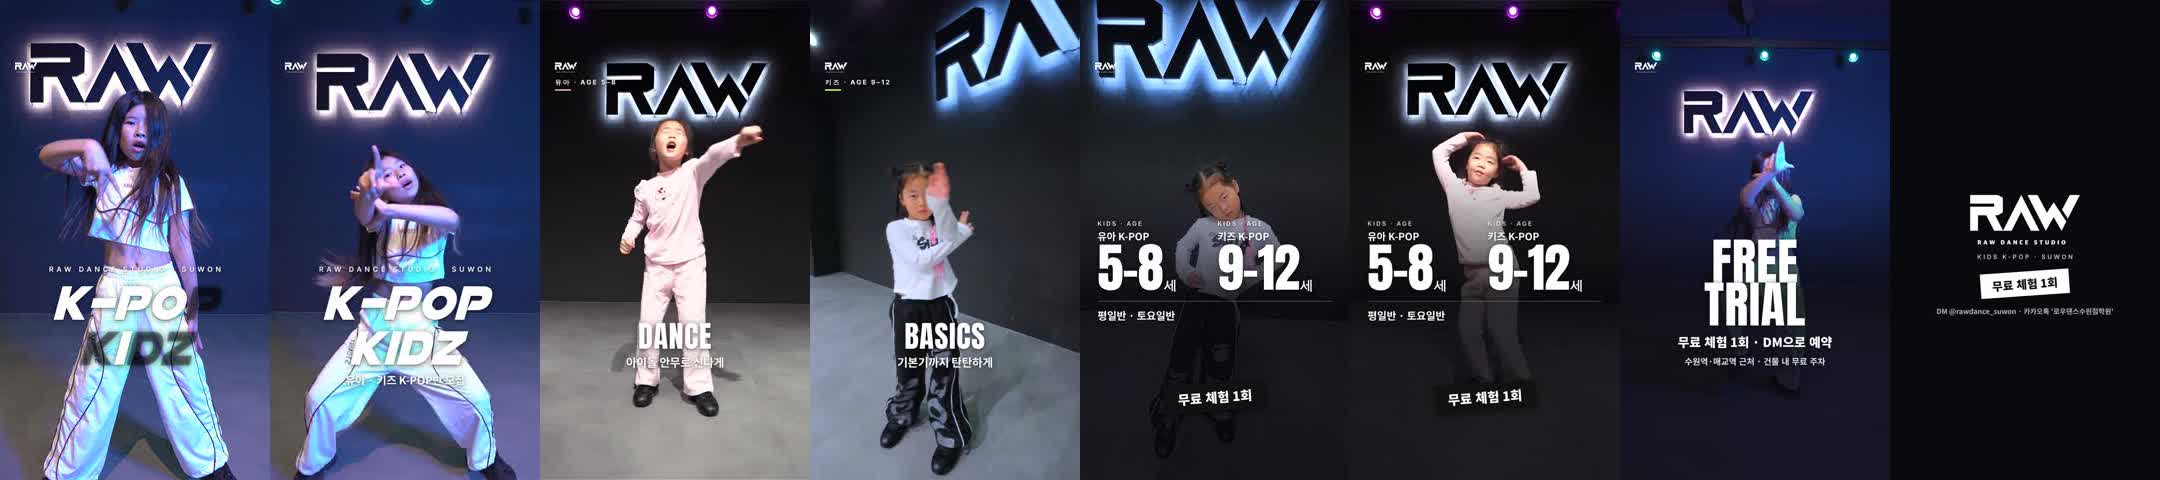
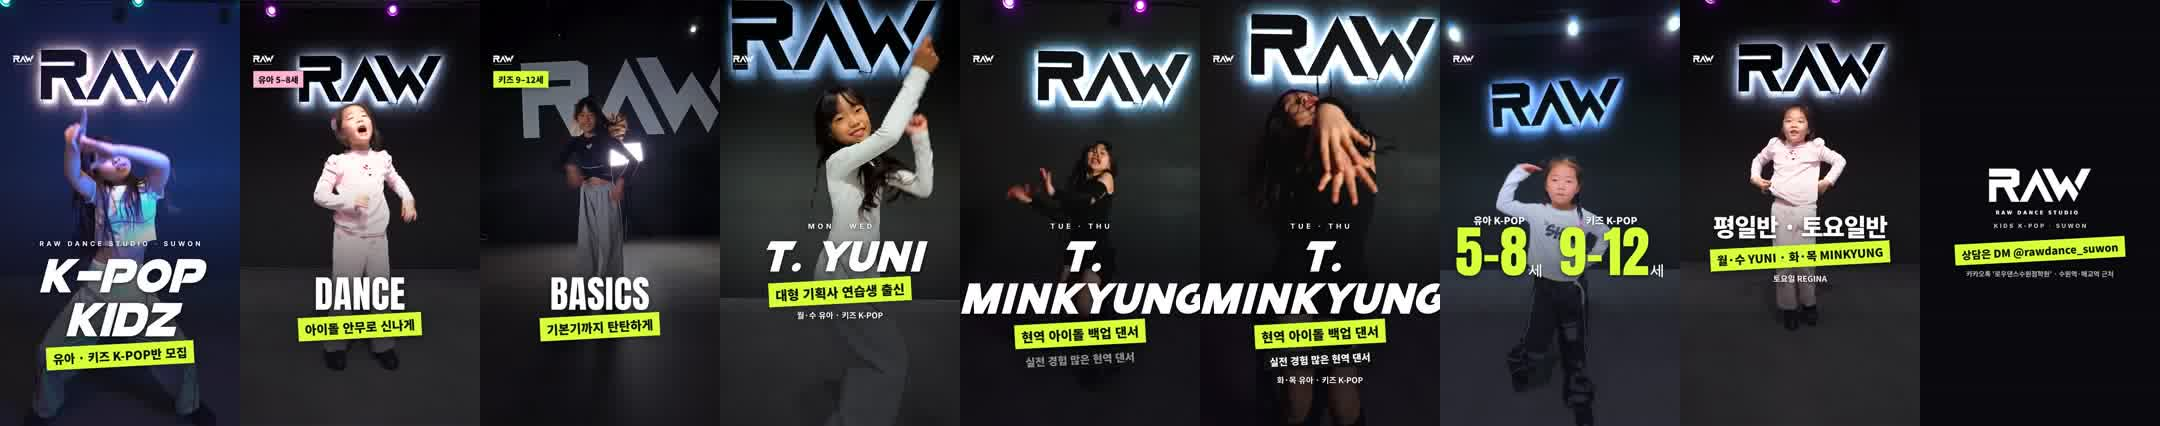
K-POP반 광고 3차: 연두 띠로 눈에 띄게, 무료 체험 뺌, 쌤 이력 장면(YUNI 대형 기획사 연습생 출신 · MINKYUNG 현역 아이돌 백업 댄서) / 가이드에 MINKYUNG 이력
Claude-Session: https://claude.ai/code/session_01CMPXWNa21Fqq6srPZpa27D

diff --git a/content/2026-11-19_kpop-kids-ad/ad.html b/content/2026-11-19_kpop-kids-ad/ad.html
@@ -1,59 +1,56 @@
 <!doctype html><html><head><meta charset="utf-8"><style>
-/* 유아·키즈 K-POP반 광고 릴스 글자 2차 (원장님 2026-11-19 "자막들 왜케 짜쳐졌냐")
-   → 상자·알약 모양 없앰. RAW 스타일: TRACKPAD 글꼴(GoGo Poster) 깜빡이며 켜지는 첫 화면, 상자 없는 흰 글자, 큰 숫자, SEASON 1 포스터의 검은 띠 */
+/* 유아·키즈 K-POP반 광고 릴스 글자 3차 (원장님 2026-11-19 "눈에 잘 안 띄는데 / 무료 체험 빼고 / 쌤 이력 강조")
+   → 중요한 말은 연두 띠 + 검은 글씨, 큰 글씨는 더 크게, 아래쪽 어둡게 깔아 대비. 쌤 장면 2개 (YUNI · MINKYUNG) */
 *{margin:0;padding:0;box-sizing:border-box}html,body{width:1080px;height:1920px;background:transparent;overflow:hidden;font-family:"Gothic A1","Noto Sans KR",sans-serif;color:#fff}
 .a{position:absolute}
-.sh{text-shadow:0 4px 24px rgba(0,0,0,.55),0 2px 4px rgba(0,0,0,.4)}
-#logo{left:60px;top:250px;height:40px}
-#tag{left:60px;top:312px;font:700 26px Inter;letter-spacing:.22em}
-#tag i{display:block;width:64px;height:6px;margin-top:10px}
-#hook{left:0;right:0;top:1060px;text-align:center}
-#hook .k{font:600 28px Inter;letter-spacing:.42em;text-indent:.42em}
-#hook .t{margin-top:14px;font:italic 400 196px/0.92 "GoGo Poster 2020",Anton;letter-spacing:.01em}
-#hook .t span{display:inline-block;white-space:pre;position:relative}
-#hook .t span i{position:absolute;left:0;top:0;font-style:inherit}
-#hook .n{margin-top:18px;font-size:44px;font-weight:800;letter-spacing:-.01em}
-#cap{left:0;right:0;top:1290px;text-align:center}
-#cap .e{font:400 120px/0.9 Anton;letter-spacing:.02em}
-#cap .k{margin-top:16px;font-size:46px;font-weight:800;letter-spacing:-.02em}
-#shade{left:0;right:0;bottom:0;height:1250px;background:linear-gradient(transparent,rgba(8,7,12,.86) 42%)}
-#info{left:70px;right:70px;top:880px}
-#info .g{display:grid;grid-template-columns:1fr 1fr;gap:20px}
-#info .c .l{font:600 24px Inter;letter-spacing:.24em;opacity:.85}
-#info .c .ko{margin-top:6px;font-size:40px;font-weight:800}
-#info .c .num{margin-top:8px;font:400 210px/0.85 Anton;letter-spacing:-.02em}
-#info .c .num small{font-family:"Gothic A1";font-size:52px;font-weight:900;margin-left:6px}
-#info .d{margin-top:40px;border-top:2px solid rgba(255,255,255,.4);padding-top:24px;font-size:42px;font-weight:800;letter-spacing:-.01em}
-.band{display:inline-block;background:#111;color:#fff;transform:rotate(-4deg);box-shadow:0 12px 26px rgba(0,0,0,.35)}
-#free{left:50%;top:1530px;transform:translate(-50%,0) rotate(-4deg);padding:20px 56px;font-size:52px;font-weight:900;white-space:nowrap}
-#cta{left:0;right:0;top:960px;text-align:center}
-#cta .e{font:400 200px/0.86 Anton;letter-spacing:.01em}
-#cta .k{margin-top:26px;font-size:50px;font-weight:900}
-#cta .s{margin-top:18px;font-size:34px;font-weight:600;opacity:.88}
+.sh{text-shadow:0 6px 28px rgba(0,0,0,.6),0 2px 6px rgba(0,0,0,.5)}
+.lime{display:inline-block;background:#D7FF3A;color:#111;font-weight:900;padding:12px 30px;transform:rotate(-3deg);box-shadow:0 12px 28px rgba(0,0,0,.35);text-shadow:none;white-space:nowrap}
+.blk{display:inline-block;background:#111;color:#fff;font-weight:900;padding:10px 26px;transform:rotate(-3deg);box-shadow:0 12px 28px rgba(0,0,0,.35);text-shadow:none;white-space:nowrap}
+#grad{left:0;right:0;bottom:0;height:1100px;background:linear-gradient(transparent,rgba(8,7,12,.78) 55%)}
+#logo{left:60px;top:250px;height:42px}
+#tag{left:60px;top:320px;padding:10px 22px;font-size:38px;font-weight:900;color:#111;box-shadow:0 8px 20px rgba(0,0,0,.3)}
+#hook{left:0;right:0;top:1080px;text-align:center}
+#hook .k{font:700 30px Inter;letter-spacing:.4em;text-indent:.4em}
+#hook .t{margin-top:12px;font:italic 400 220px/0.9 "GoGo Poster 2020",Anton}
+#hook .t span{display:inline-block;white-space:pre;position:relative}#hook .t span i{position:absolute;left:0;top:0;font-style:inherit}
+#hook .lime{margin-top:26px;font-size:54px}
+#cap{left:0;right:0;top:1250px;text-align:center}
+#cap .e{font:400 170px/0.88 Anton;letter-spacing:.01em}
+#cap .lime{margin-top:20px;font-size:56px}
+#tch{left:0;right:0;top:1000px;text-align:center}
+#tch .d{font:700 32px Inter;letter-spacing:.42em;text-indent:.42em}
+#tch .n{margin-top:8px;font:italic 400 200px/0.95 "GoGo Poster 2020",Anton}
+#tch .lime{margin-top:24px;font-size:58px}
+#tch .blk{margin-top:18px;font-size:44px}
+#tch .s{margin-top:24px;font-size:36px;font-weight:800}
+#info{left:0;right:0;top:960px;text-align:center}
+#info .g{display:flex;justify-content:center;gap:70px}
+#info .ko{font-size:44px;font-weight:900}
+#info .num{margin-top:4px;font:400 250px/0.85 Anton;color:#D7FF3A}
+#info .num small{font-family:"Gothic A1";font-size:64px;font-weight:900;color:#fff;margin-left:6px}
+#info .big{font-size:110px;font-weight:900;letter-spacing:-.04em;line-height:1.05}
+#info .e{font:400 260px/0.85 Anton}
+#info .lime{margin-top:28px;font-size:52px}
+#info .s{margin-top:24px;font-size:36px;font-weight:800;line-height:1.5}
 #end{inset:0;background:#0b0a0f}
-#end .c{position:absolute;left:0;right:0;top:780px;text-align:center}
-#end img{width:440px}
-#end .k{margin-top:30px;font:600 24px Inter;letter-spacing:.32em;text-indent:.32em;opacity:.8}
-#end .b{margin-top:44px;padding:16px 46px;font-size:46px;font-weight:900;background:#fff;color:#111}
-#end .s{margin-top:40px;font-size:28px;font-weight:600;opacity:.7}
+#end .c{position:absolute;left:0;right:0;top:760px;text-align:center}
+#end img{width:460px}
+#end .k{margin-top:30px;font:700 26px Inter;letter-spacing:.32em;text-indent:.32em;opacity:.85}
+#end .lime{margin-top:50px;font-size:48px}
+#end .s{margin-top:34px;font-size:30px;font-weight:700;opacity:.75}
 </style></head><body>
-<div id="shade" class="a"></div>
+<div id="grad" class="a"></div>
 <img id="logo" class="a" src="logo.png">
-<div id="tag" class="a sh"><span></span><i></i></div>
-<div id="hook" class="a sh"><div class="k">RAW DANCE STUDIO · SUWON</div><div class="t" id="ht"></div><div class="n">유아 · 키즈 K-POP반 모집</div></div>
-<div id="cap" class="a sh"><div class="e"></div><div class="k"></div></div>
-<div id="info" class="a sh">
- <div class="g"><div class="c"><div class="l">KIDS · AGE</div><div class="ko">유아 K-POP</div><div class="num">5–8<small>세</small></div></div>
-  <div class="c"><div class="l">KIDS · AGE</div><div class="ko">키즈 K-POP</div><div class="num">9–12<small>세</small></div></div></div>
- <div class="d">평일반 · 토요일반</div></div>
-<div id="free" class="a band">무료 체험 1회</div>
-<div id="cta" class="a sh"><div class="e">FREE<br>TRIAL</div><div class="k">무료 체험 1회 · DM으로 예약</div><div class="s">수원역·매교역 근처 · 건물 내 무료 주차</div></div>
+<div id="tag" class="a"></div>
+<div id="hook" class="a sh"><div class="k">RAW DANCE STUDIO · SUWON</div><div class="t" id="ht"></div><div class="lime">유아 · 키즈 K-POP반 모집</div></div>
+<div id="cap" class="a sh"><div class="e"></div><div class="lime"></div></div>
+<div id="tch" class="a sh"></div>
+<div id="info" class="a sh"></div>
 <div id="end" class="a"><div class="c"><img src="logo.png"><div class="k">KIDS K-POP · SUWON</div>
- <div class="band b">무료 체험 1회</div><div class="s">DM @rawdance_suwon · 카카오톡 '로우댄스수원점학원'</div></div></div>
+ <div class="lime">상담은 DM @rawdance_suwon</div><div class="s">카카오톡 '로우댄스수원점학원' · 수원역·매교역 근처</div></div></div>
 <script>
 const $=id=>document.getElementById(id), cl=x=>Math.min(1,Math.max(0,x)), eo=x=>1-Math.pow(1-cl(x),3);
 let TL=[], VER='30';
-// TRACKPAD처럼 글자마다 무작위로 켜짐 (켜지기 직전 회색 엉뚱한 글자 1프레임)
 let seed=7; const rnd=()=>{seed=(seed*16807)%2147483647;return seed/2147483647};
 const AZ="ABCDEFGHIJKLMNOPQRSTUVWXYZ"; let CH=[];
 function mk(txt){ const el=$('ht'); el.innerHTML='';
@@ -61,24 +58,38 @@ function mk(txt){ const el=$('ht'); el.innerHTML='';
     const s=document.createElement('span'); s.textContent=c; const g=document.createElement('i'); s.appendChild(g); el.appendChild(s);
     return {s,g,c,on:0.05+rnd()*0.45,gh:rnd()<0.45,gc:AZ[Math.floor(rnd()*26)]}; }).filter(Boolean); }
 const show=(id,on)=>{ $(id).style.display=on?'':'none'; };
+const pop=(el,u,dl=0)=>{ const p=eo((u-dl)/0.22); el.style.opacity=p; el.style.transform=(el.dataset.r||'')+` scale(${1.18-0.18*p})`; };
+// 쌤 카드 (원장님 확인 2026-11-19, 브랜드 가이드 강사 표)
+const TCH={yuni:{d:'MON · WED',n:'T. YUNI',a:'대형 기획사 연습생 출신',b:'',s:'월·수 유아 · 키즈 K-POP'},
+           mink:{d:'TUE · THU',n:'T. MINKYUNG',a:'현역 아이돌 백업 댄서',b:'실전 경험 많은 현역 댄서',s:'화·목 유아 · 키즈 K-POP'}};
+// 정보 화면 (30초는 3장, 15초는 1장)
+const INFO30=[`<div class="g"><div><div class="ko">유아 K-POP</div><div class="num">5–8<small>세</small></div></div><div><div class="ko">키즈 K-POP</div><div class="num">9–12<small>세</small></div></div></div>`,
+  `<div class="big">평일반 · 토요일반</div><div class="lime">월·수 YUNI · 화·목 MINKYUNG</div><div class="s">토요일 REGINA</div>`,
+  `<div class="e">DM</div><div class="lime">상담은 인스타 DM · 카카오톡</div><div class="s">수원역·매교역 근처 · 건물 내 무료 주차</div>`];
+const INFO15=`<div class="g"><div><div class="ko">유아 K-POP</div><div class="num">5–8<small>세</small></div></div><div><div class="ko">키즈 K-POP</div><div class="num">9–12<small>세</small></div></div></div><div class="lime">평일반 · 토요일반 · 상담 DM</div>`;
 window.setup=o=>{ TL=o.tl; VER=o.ver; mk('K-POP\nKIDZ'); };
 window.render=t=>{
-  const seg=TL.find(s=>t>=s.t0&&t<s.t1)||TL[TL.length-1], k=seg.kind;
+  const seg=TL.find(s=>t>=s.t0&&t<s.t1)||TL[TL.length-1], k=seg.kind, u=t-seg.t0;
   const first=kind=>TL.find(s=>s.kind===kind), last=kind=>[...TL].reverse().find(s=>s.kind===kind);
-  show('logo',k!=='logo'); show('shade',k==='info'||k==='cta');
-  show('hook',k==='hook'); if(k==='hook'){ const u=t-first('hook').t0;
-    CH.forEach(c=>{ const on=u>=c.on; c.s.style.color=on?'#fff':'transparent'; c.g.textContent=(c.gh&&u>=c.on-1/24&&u<c.on)?c.gc:''; c.g.style.color='rgba(255,255,255,.4)'; });
-    $('hook').querySelector('.k').style.opacity=eo((u-0.05)/0.3); $('hook').querySelector('.n').style.opacity=eo((u-0.45)/0.3); }
-  show('tag',k==='mont'); if(k==='mont'){ const y=seg.cls==='유아'; $('tag').firstElementChild.textContent=y?'유아 · AGE 5–8':'키즈 · AGE 9–12'; $('tag').lastElementChild.style.background=y?'#FFB3CF':'#D7FF3A'; }
+  show('logo',k!=='logo'); show('grad',k!=='logo');
+  show('hook',k==='hook'); if(k==='hook'){ const h=t-first('hook').t0;
+    CH.forEach(c=>{ c.s.style.color=h>=c.on?'#fff':'transparent'; c.g.textContent=(c.gh&&h>=c.on-1/24&&h<c.on)?c.gc:''; c.g.style.color='rgba(255,255,255,.4)'; });
+    $('hook').querySelector('.k').style.opacity=eo((h-0.05)/0.3); const L=$('hook').querySelector('.lime'); L.dataset.r='rotate(-3deg)'; pop(L,h,0.5); }
+  show('tag',k==='mont'); if(k==='mont'){ const y=seg.cls==='유아'; $('tag').textContent=y?'유아 5–8세':'키즈 9–12세'; $('tag').style.background=y?'#FFB3CF':'#D7FF3A'; }
   const m0=first('mont'), m1=last('mont');
   const caps=VER==='30'?[['DANCE','아이돌 안무로 신나게'],['BASICS','기본기까지 탄탄하게'],['EVERY WEEK','평일반 · 토요일반']]:[['DANCE','아이돌 안무로 신나게'],['BASICS','기본기까지 탄탄하게']];
-  show('cap',k==='mont'); if(k==='mont'){ const n=caps.length, span=(m1.t1-m0.t0)/n, i=Math.min(n-1,Math.floor((t-m0.t0)/span)), u=t-m0.t0-i*span;
-    $('cap').querySelector('.e').textContent=caps[i][0]; $('cap').querySelector('.k').textContent=caps[i][1];
-    const p=eo(u/0.22); $('cap').style.opacity=p; $('cap').style.transform=`translateY(${(1-p)*24}px)`; }
-  show('info',k==='info'); show('free',k==='info');
-  if(k==='info'){ const u=t-first('info').t0; $('info').style.opacity=eo(u/0.35); $('info').style.transform=`translateY(${(1-eo(u/0.35))*30}px)`;
-    const fu=u-(VER==='30'?1.5:0.6); $('free').style.opacity=eo(fu/0.2); $('free').style.transform=`translate(-50%,0) rotate(-4deg) scale(${1.25-0.25*eo(fu/0.2)})`; }
-  show('cta',k==='cta'); if(k==='cta'){ const u=t-first('cta').t0; $('cta').style.opacity=eo(u/0.3); }
-  show('end',k==='logo'); if(k==='logo') $('end').style.opacity=eo((t-first('logo').t0)/0.35);
+  show('cap',k==='mont'); if(k==='mont'){ const n=caps.length, span=(m1.t1-m0.t0)/n, i=Math.min(n-1,Math.floor((t-m0.t0)/span)), v=t-m0.t0-i*span;
+    $('cap').querySelector('.e').textContent=caps[i][0]; const L=$('cap').querySelector('.lime'); L.textContent=caps[i][1]; L.dataset.r='rotate(-3deg)';
+    const E=$('cap').querySelector('.e'); E.style.opacity=eo(v/0.18); E.style.transform=`translateY(${(1-eo(v/0.18))*30}px)`; pop(L,v,0.12); }
+  show('tch',k==='yuni'||k==='mink'); if(k==='yuni'||k==='mink'){ const c=TCH[k], v=t-first(k).t0;
+    if($('tch').dataset.k!==k){ $('tch').dataset.k=k; $('tch').innerHTML=`<div class="d">${c.d}</div><div class="n" style="white-space:nowrap;font-size:${c.n.length>8?128:200}px">${c.n}</div><div class="lime">${c.a}</div>${c.b?`<br><div class="blk">${c.b}</div>`:''}<div class="s">${c.s}</div>`; }
+    const T=$('tch'); T.querySelector('.d').style.opacity=eo(v/0.2); const N=T.querySelector('.n'); N.style.opacity=eo(v/0.2); N.style.transform=`translateX(${(1-eo(v/0.25))*-60}px)`;
+    const A=T.querySelector('.lime'); A.dataset.r='rotate(-3deg)'; pop(A,v,0.25); const B=T.querySelector('.blk'); if(B){ B.dataset.r='rotate(-3deg)'; pop(B,v,0.45); }
+    T.querySelector('.s').style.opacity=eo((v-0.5)/0.3); }
+  show('info',k==='info'); if(k==='info'){ const segs=TL.filter(s=>s.kind==='info'), i=segs.indexOf(seg), html=VER==='30'?INFO30[Math.min(i,2)]:INFO15;
+    if($('info').dataset.i!==String(i)){ $('info').dataset.i=String(i); $('info').innerHTML=html; }
+    $('info').style.opacity=eo(u/0.2); $('info').style.transform=`translateY(${(1-eo(u/0.25))*30}px)`;
+    const L=$('info').querySelector('.lime'); if(L){ L.dataset.r='rotate(-3deg)'; pop(L,u,0.3); } }
+  show('end',k==='logo'); if(k==='logo'){ const v=t-first('logo').t0; $('end').style.opacity=eo(v/0.35); const L=$('end').querySelector('.lime'); L.dataset.r='rotate(-3deg)'; pop(L,v,0.4); }
 };
 </script></body></html>

diff --git a/content/2026-11-19_kpop-kids-ad/make_ad.py b/content/2026-11-19_kpop-kids-ad/make_ad.py
@@ -66,10 +66,11 @@ def clip(f, t, d, out):
 # ── 구성 (박자 단위) ──
 if WHICH == "30":
     song, bpm, first = os.path.join(MUS, "party.wav"), 120.0, 0.029; B = 60 / bpm
-    plan = [("hook", 4)] + [("mont", 2)] * 12 + [("info", 4)] * 5 + [("cta", 4)] * 3 + [("logo", 4)]
+    # 원장님 2026-11-19: 무료 체험 빼고, 쌤 이력 강조 → 훅 · 몽타주 · T.YUNI · T.MINKYUNG · 정보 · 로고 (64박 = 32초)
+    plan = [("hook", 4)] + [("mont", 2)] * 12 + [("yuni", 4)] * 2 + [("mink", 4)] * 2 + [("info", 4)] * 3 + [("logo", 8)]
 else:
     song, bpm, first = os.path.join(MUS, "madness.wav"), 130.0, 0.435; B = 60 / bpm
-    plan = [("hook", 4)] + [("mont", 2)] * 8 + [("info", 4)] * 2 + [("logo", 4)]
+    plan = [("hook", 4)] + [("mont", 2)] * 5 + [("yuni", 4)] + [("mink", 4)] + [("info", 6)] + [("logo", 4)]
 nmont = sum(1 for p in plan if p[0] == "mont"); nlong = sum(1 for p in plan if p[0] in ("hook", "info", "cta", "logo"))
 
 # 영상마다 후보 구간
@@ -83,9 +84,15 @@ queue = []
 for r in range(4):
     for f in order:
         if r < len(cand[f]): queue.append((f,) + cand[f][r])
+# 쌤 장면은 그 쌤 반 영상에서 (1021 = YUNI 반, 1119 = MINKYUNG 반 — 영상 앞 자막 기준)
+pool = {"yuni": [("1021_kids.mp4",) + c for c in cand["1021_kids.mp4"]], "mink": [("1119_kids_insta.mp4",) + c for c in cand["1119_kids_insta.mp4"]]}
+used = {"yuni": 0, "mink": 0}
+queue = [q for q in queue if q[0] not in ("1021_kids.mp4", "1119_kids_insta.mp4")] + [q for q in queue if q[0] in ("1021_kids.mp4", "1119_kids_insta.mp4")]
 tmp = tempfile.mkdtemp(prefix="raw-kpopad-"); segs = []; timeline = []; t = 0.0; qi = 0
 for kind, beats in plan:
-    d = beats * B; f, st, cls = queue[qi % len(queue)]; qi += 1
+    d = beats * B
+    if kind in pool: f, st, cls = pool[kind][used[kind] % len(pool[kind])]; used[kind] += 1
+    else: f, st, cls = queue[qi % len(queue)]; qi += 1
     # 몽타주는 그 구간 가운데 1초 근처, 긴 장면은 시작부터
     s0 = st + (0.4 if kind == "mont" else 0)
     out = os.path.join(tmp, f"{len(segs):02d}.mp4"); clip(os.path.join(SRC, f), s0, d, out); segs.append(out)

diff --git a/content/2026-11-19_kpop-kids-ad/instagram.md b/content/2026-11-19_kpop-kids-ad/instagram.md
@@ -4,17 +4,19 @@
 > - 30초 `KPOP_ad_30s.mp4`: MA_LucaFrancini_PrivateParty (120 BPM, 컷 22개, 박자 맞춤)
 > - 15초 `KPOP_ad_15s.mp4`: MA_IntoTheMusic_JustMadness (130 BPM, 컷 12개)
 > - 만드는 법: `make_ad.py`(장면 자동 고르기·박자 컷) + `ad.html`(화면 글자). 영상 파일은 저장소에 안 올림
+> 3차(2026-11-19): 무료 체험 뺌, 쌤 이력 장면 추가 — compliance-checker 3차 검수: (아래 기록)
 > 사실: 유아 K-POP 5~8세 · 키즈 K-POP 9~12세(2026-11-19 원장님), 평일반·토요일반, 교습비는 브랜드 가이드, K-POP반 무료 체험 1인 1회
 > 광고 규칙(docs/instagram-ads.md): 원곡 제목·가수명 미표기 ✓, 원음 0 ✓, 영상 속 아이돌 안무는 1초 안팎 짧은 컷 — 원장님 확인 필요
 > 음원 라이선스: 원장님 확인 대기 (유료 광고 사용 가능 여부 캡처)
-> compliance-checker 검수: 보류 (2026-11-19) — 문구는 수정 후 통과("첫 수업 무료 체험"→"무료 체험 1회", ✨ 삭제 권장) / 발행 전 원장님 확인 2건: ① 음원 2곡 유료 광고 라이선스 캡처 ② 아이돌 안무 컷 사용 결정(instagram-ads.md 규칙상 알아볼 수 있는 안무 컷은 광고 제외, 1초 컷도 예외 아님 — 교체 또는 전문가 확인 후 원장님 승인)
+> (1·2차 검수) compliance-checker 검수: 보류 (2026-11-19) — 문구는 수정 후 통과("첫 수업 무료 체험"→"무료 체험 1회", ✨ 삭제 권장) / 발행 전 원장님 확인 2건: ① 음원 2곡 유료 광고 라이선스 캡처 ② 아이돌 안무 컷 사용 결정(instagram-ads.md 규칙상 알아볼 수 있는 안무 컷은 광고 제외, 1초 컷도 예외 아님 — 교체 또는 전문가 확인 후 원장님 승인)
 
-## 화면 글자
-- 0~2초: "K-POP KIDS" / "유아·키즈 K-POP반 모집"
-- 몽타주: 아이마다 "유아 5~8세" 또는 "키즈 9~12세" 표시 · 큰 자막 "아이돌 안무로 신나게" → "기본기까지 탄탄하게" → "평일반 · 토요일반"(30초만)
-- 정보: "유아 K-POP 5~8세 / 키즈 K-POP 9~12세 / 평일반 · 토요일반 / 무료 체험 1회"
-- 30초만: "무료 체험 예약은 DM 주세요 / 수원역·매교역 근처 · 건물 내 무료 주차"
-- 끝: RAW 로고 / "로우댄스학원 수원점 · 유아·키즈 K-POP" / "무료 체험 1회" / "DM @rawdance_suwon · 카카오톡 '로우댄스수원점학원'"
+## 화면 글자 (3차, 원장님 2026-11-19 "눈에 잘 안 띄는데 / 무료 체험 빼고 / 쌤 이력 강조")
+- 0~2초: "RAW DANCE STUDIO · SUWON" / "K-POP KIDZ"(TRACKPAD처럼 깜빡이며) / 연두 띠 "유아 · 키즈 K-POP반 모집"
+- 몽타주: 왼쪽 위 "유아 5–8세"(분홍) 또는 "키즈 9–12세"(연두) · 큰 영문 DANCE / BASICS / EVERY WEEK + 연두 띠 "아이돌 안무로 신나게" / "기본기까지 탄탄하게" / "평일반 · 토요일반"
+- 쌤 장면 (그 쌤 반 영상 위): "MON · WED / T. YUNI / 대형 기획사 연습생 출신 / 월·수 유아 · 키즈 K-POP", "TUE · THU / T. MINKYUNG / 현역 아이돌 백업 댄서 / 실전 경험 많은 현역 댄서 / 화·목 유아 · 키즈 K-POP"
+- 정보: "유아 K-POP 5–8세 · 키즈 K-POP 9–12세" → "평일반 · 토요일반 / 월·수 YUNI · 화·목 MINKYUNG / 토요일 REGINA" → "DM / 상담은 인스타 DM · 카카오톡 / 수원역·매교역 근처 · 건물 내 무료 주차"
+- 끝: RAW 로고 / "KIDS K-POP · SUWON" / "상담은 DM @rawdance_suwon" / "카카오톡 '로우댄스수원점학원' · 수원역·매교역 근처"
+- 15초: 훅 · 몽타주 5컷 · YUNI · MINKYUNG · 정보 1장(나이 + "평일반 · 토요일반 · 상담 DM") · 로고
 
 ## 광고 문구 (캡션)
 
@@ -22,16 +24,20 @@
 우리 아이 첫 K-POP, RAW에서 신나게
 유아 K-POP 5~8세 · 키즈 K-POP 9~12세
 
+월·수 T. YUNI · 대형 기획사 연습생 출신
+화·목 T. MINKYUNG · 현역 아이돌 백업 댄서, 실전 경험 많은 현역 댄서
+토 T. REGINA
+(강사 개인 경력)
+
 아이돌 안무로 기본기까지
 유아 평일 16:00 · 토 13:00 / 키즈 평일 17:00 · 토 14:00
-(평일반은 월·수 또는 화·목, 주 2회)
 
 교습비 (월)
 유아 K-POP 평일반 14만원 · 토요일반 8만원
 키즈 K-POP 평일반 16만원 · 토요일반 10만원
 교재비 없음
 
-무료 체험 1회 (1인 1회) · DM으로 예약해 주세요
+상담 DM · 카톡 '로우댄스수원점학원' · 031-225-6600
 📍 수원역·매교역 근처 매산로 136, 4층 · 건물 내 무료 주차
 로우댄스학원 수원점 · 학원 등록번호 제8189호
 

diff --git a/brand/brand-guide.md b/brand/brand-guide.md
@@ -127,7 +127,7 @@
 |---|---|---|
 | YELLS | 전문반 PRO(금 18:30) | [확인필요] |
 | YUNI | 유아·키즈·취미 K-POP(월수), 오디션반(수 19:30) | 대형 기획사 연습생 출신, 오디션·예고·예대 합격생 다수 배출 (원장님 확인 2026-11-13) |
-| MINKYUNG | 유아·키즈·취미 K-POP(화목), 걸스힙합(금 20:10) | [확인필요] |
+| MINKYUNG | 유아·키즈·취미 K-POP(화목), 걸스힙합(금 20:10) | 현역 아이돌 백업 댄서 경력 다수, 지금도 활동 중인 현역 댄서 (실전 경험 많음, 원장님 확인 2026-11-19) |
 | REGINA | 토요일 유아·키즈·취미 K-POP | [확인필요] |
 | GAON | 베이직(화목 18:30) | [확인필요] |
 | ARIN | 걸리시(화 19:40) | [확인필요] |
